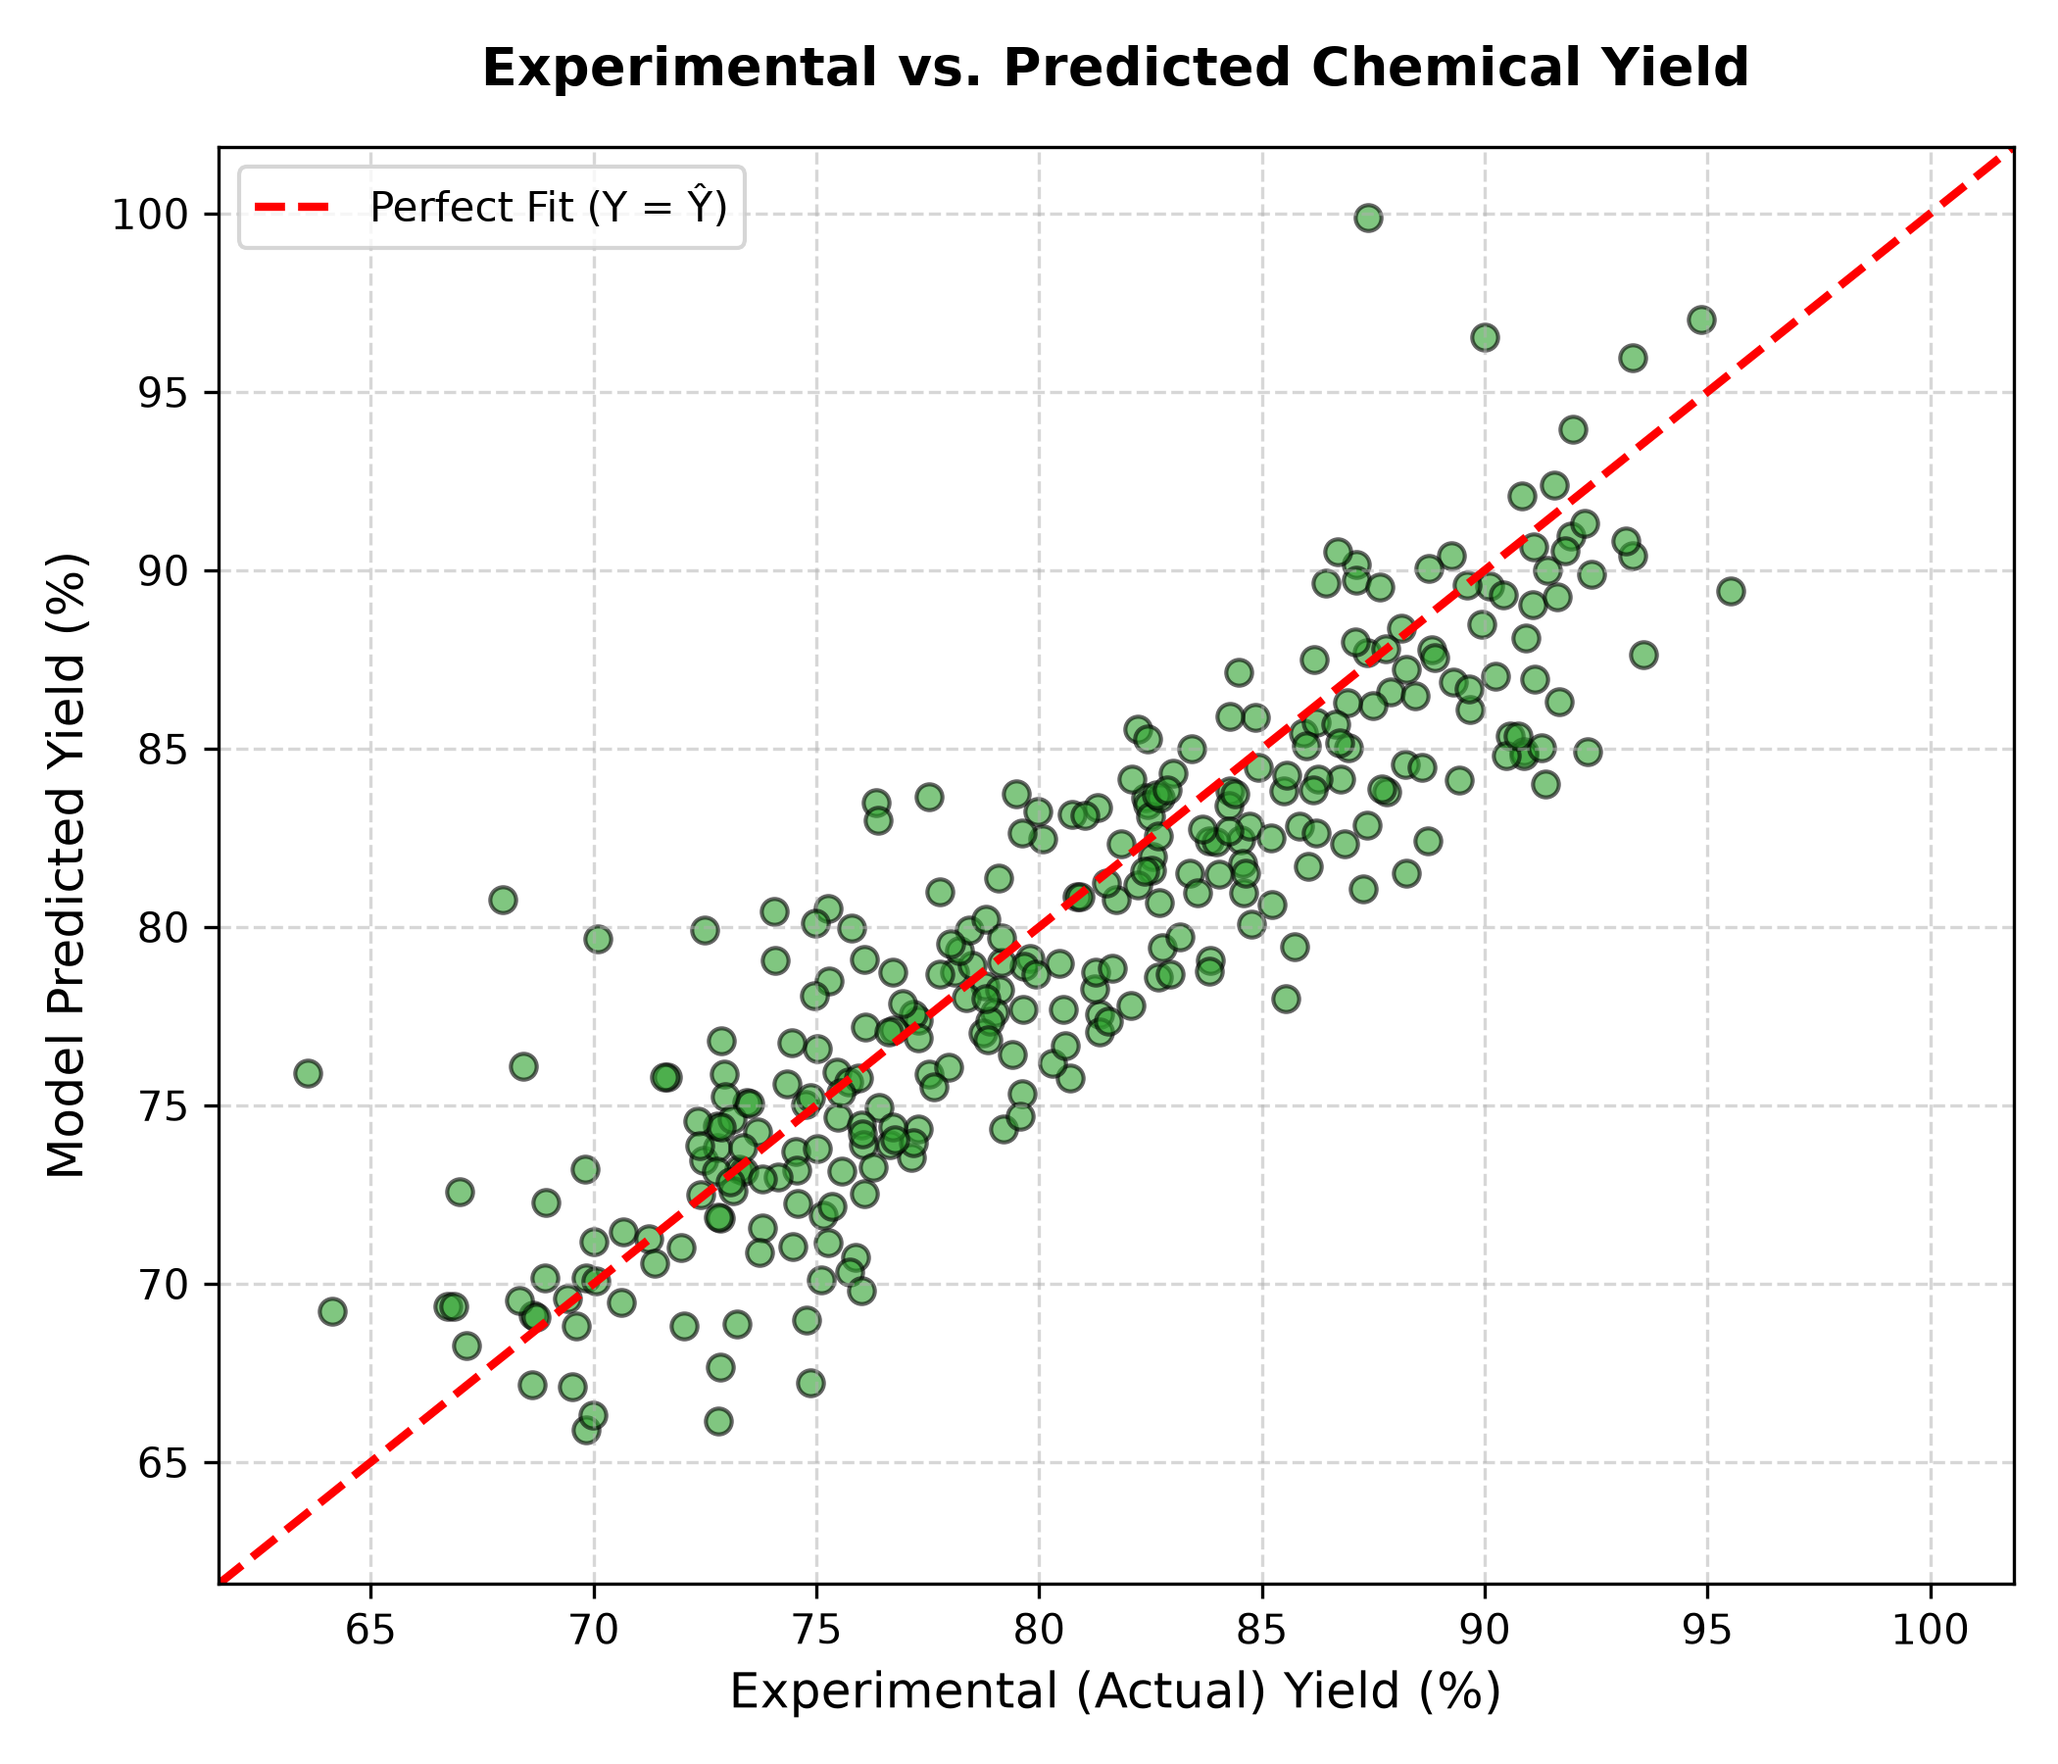
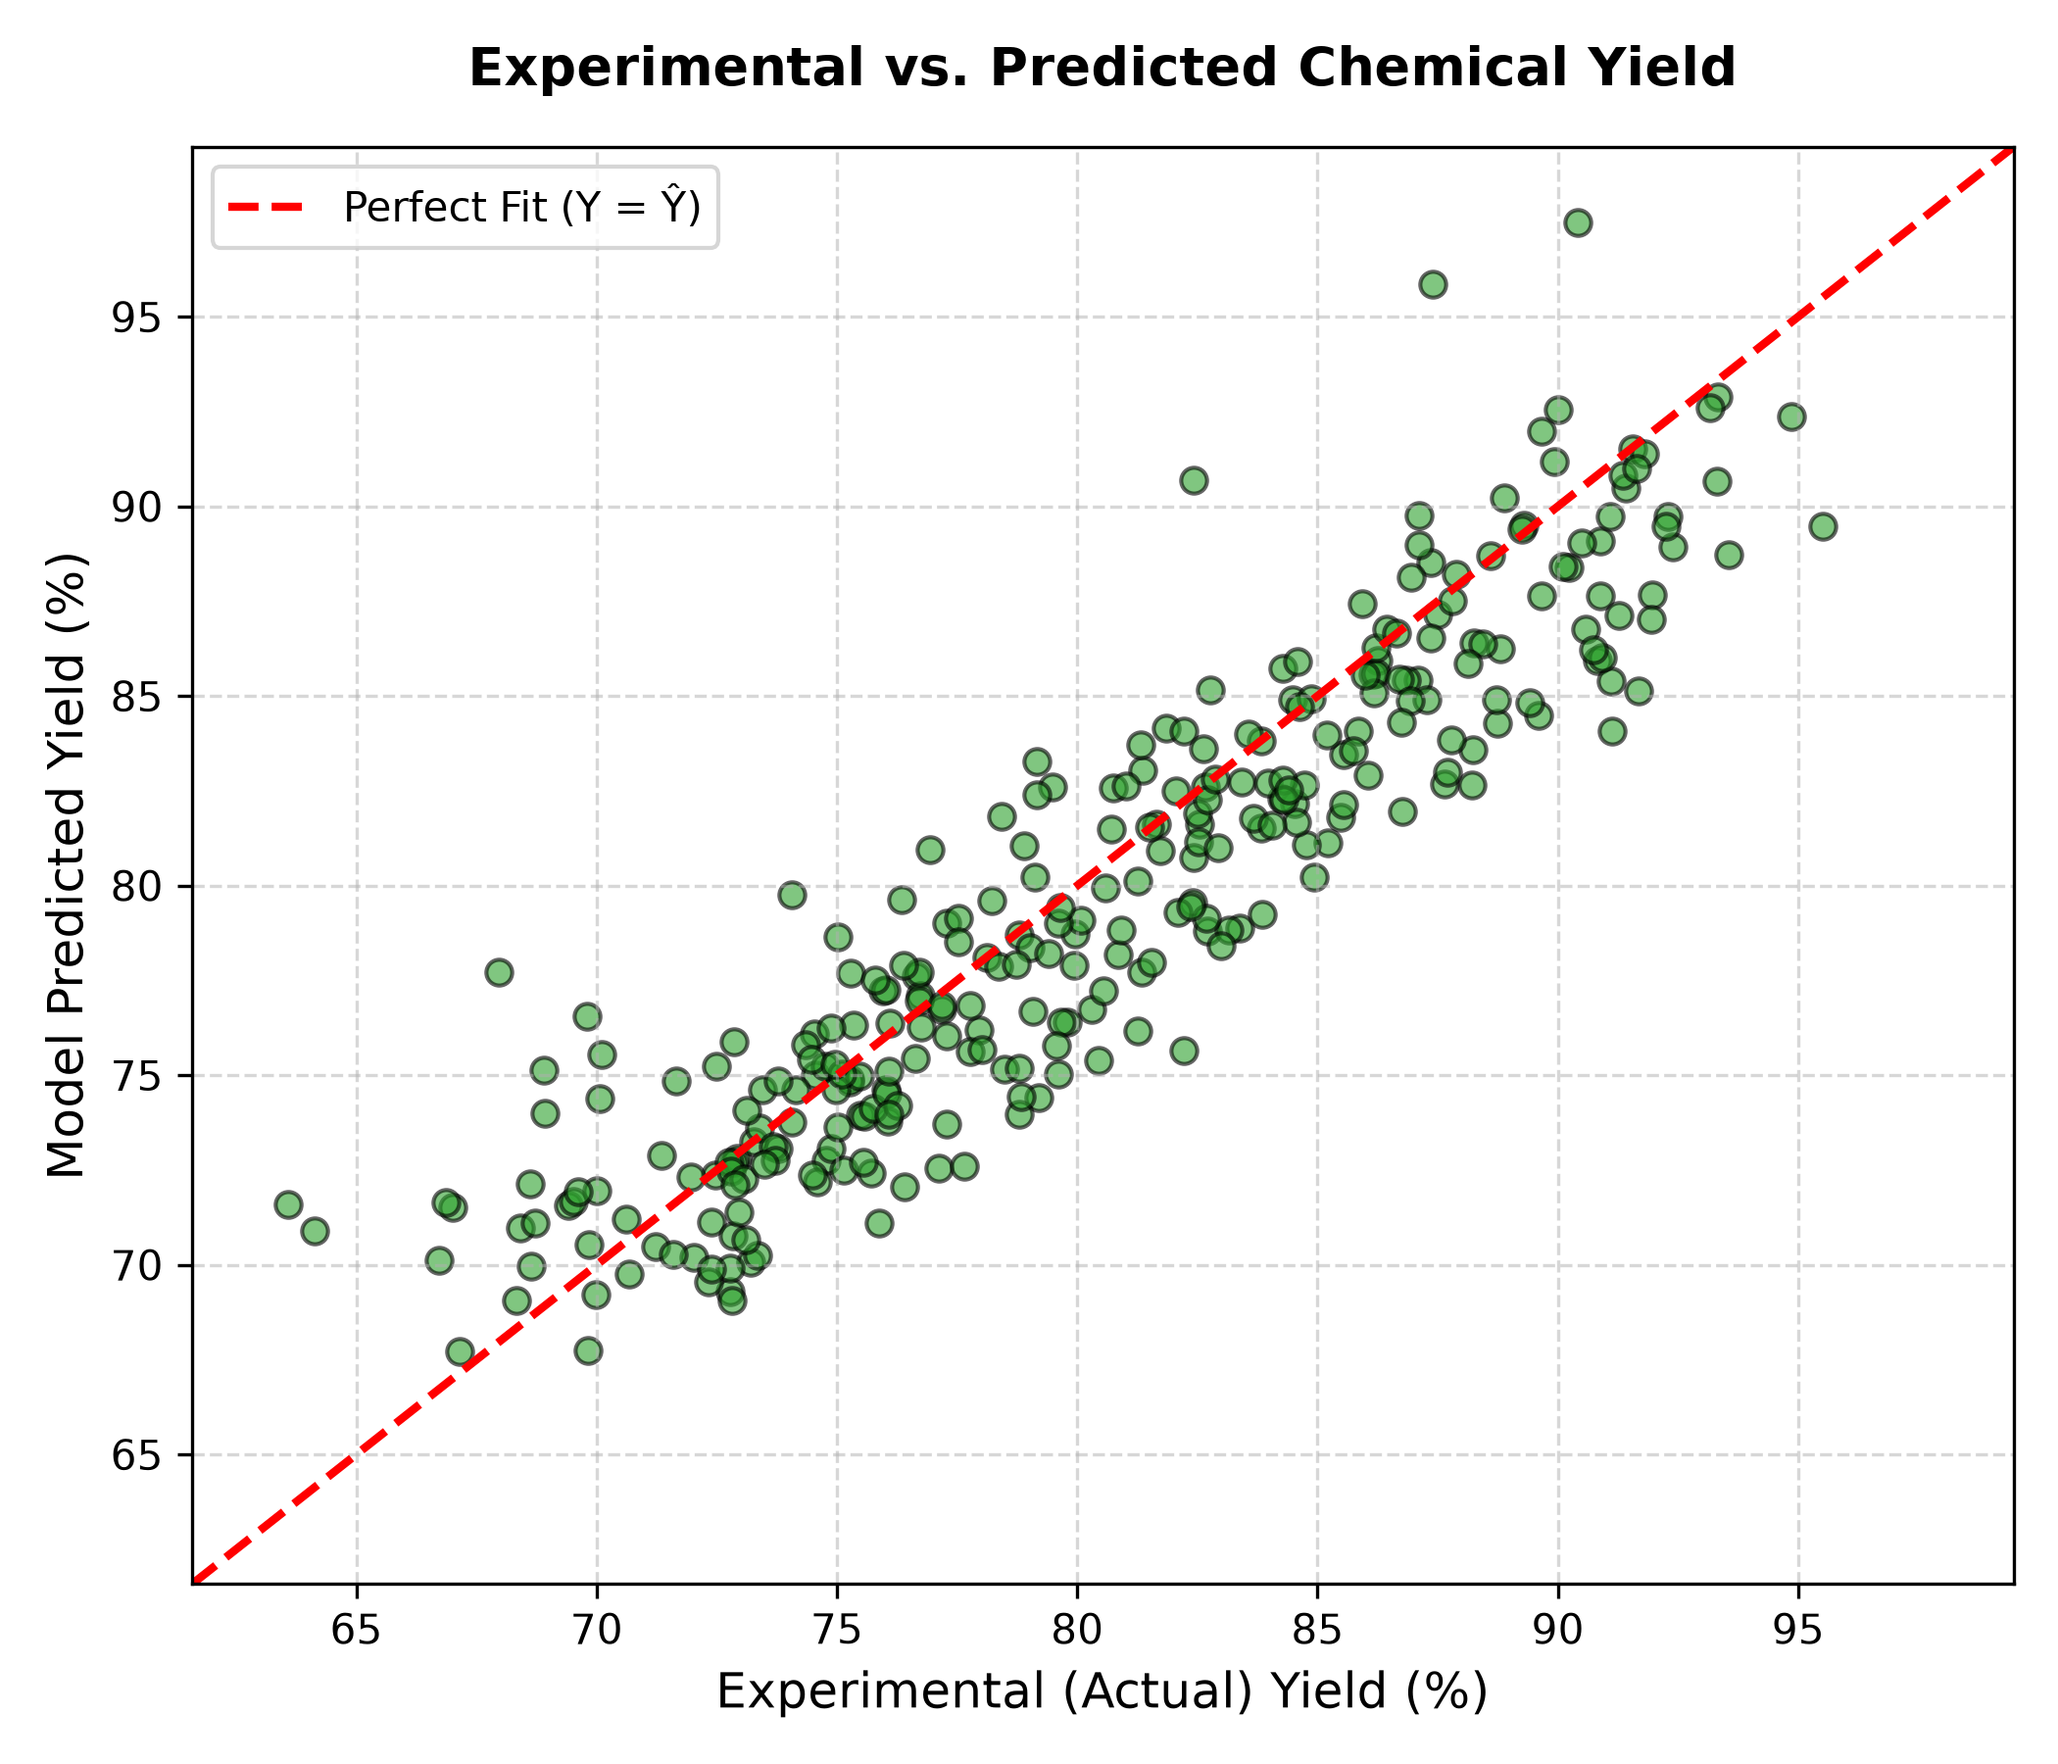
Fixed model path, added Streamlit frontend inputs, and updated prediction logic

diff --git a/src/predict.py b/src/predict.py
@@ -1,99 +1,25 @@
-import os
-import argparse
-import pickle
-import numpy as np
 import torch
+import numpy as np
+from src.model import ChemicalYieldPredictor
 
-from model import ChemicalYieldPredictor
+MODEL_PATH = "results/model.pt"
 
-def predict_yield(temperature, pressure, reaction_time, concentration, catalyst, project_root):
+def predict_yield(input_array):
     """
-    Predicts the chemical process yield for a set of raw process parameters.
-    
-    Parameters:
-    - temperature (float): Temperature in °C
-    - pressure (float): Pressure in bar
-    - reaction_time (float): Reaction time in hours
-    - concentration (float): Concentration in M
-    - catalyst (float): Catalyst amount in wt%
-    - project_root (str): Root directory of the project
-    
-    Returns:
-    - float: Predicted yield (%)
+    input_array: numpy array of shape (1, 5)
+    returns: predicted yield (float)
     """
-    results_dir = os.path.join(project_root, 'results')
-    scaler_path = os.path.join(results_dir, 'scaler.pkl')
-    model_path = os.path.join(results_dir, 'best_model.pth')
-    
-    # 1. Verify existence of models and scalers
-    if not os.path.exists(scaler_path) or not os.path.exists(model_path):
-        raise FileNotFoundError("Model or scaler not found. Please train the model by running main.py first.")
-        
-    # 2. Load scaler
-    with open(scaler_path, 'rb') as f:
-        scaler = pickle.load(f)
-        
-    # 3. Load trained model
+
+    # Load model
     model = ChemicalYieldPredictor()
-    model.load_state_dict(torch.load(model_path, map_location=torch.device('cpu')))
+    model.load_state_dict(torch.load(MODEL_PATH, map_location=torch.device("cpu")))
     model.eval()
-    
-    # 4. Prepare and scale inputs
-    raw_inputs = np.array([[temperature, pressure, reaction_time, concentration, catalyst]])
-    scaled_inputs = scaler.transform(raw_inputs)
-    
-    # 5. Convert to tensor and run inference
-    inputs_tensor = torch.tensor(scaled_inputs, dtype=torch.float32)
+
+    # Convert input to tensor
+    input_tensor = torch.tensor(input_array, dtype=torch.float32)
+
+    # Predict
     with torch.no_grad():
-        predicted_yield_tensor = model(inputs_tensor)
-        predicted_yield = predicted_yield_tensor.item()
-        
-    return predicted_yield
+        prediction = model(input_tensor)
 
-def main():
-    project_root = os.path.dirname(os.path.dirname(__file__))
-    
-    parser = argparse.ArgumentParser(description="ML-Based Decision-Support System for Chemical Process Yield Prediction")
-    parser.add_argument('--temp', type=float, default=180.0, help="Reaction Temperature in °C (typical range: 100 to 250)")
-    parser.add_argument('--pressure', type=float, default=30.0, help="System Pressure in bar (typical range: 1 to 50)")
-    parser.add_argument('--time', type=float, default=6.0, help="Reaction Time in hours (typical range: 0.5 to 10)")
-    parser.add_argument('--conc', type=float, default=2.2, help="Reactant Concentration in M (typical range: 0.5 to 3.0)")
-    parser.add_argument('--cat', type=float, default=1.0, help="Catalyst Amount in wt% (typical range: 0.1 to 2.0)")
-    
-    args = parser.parse_args()
-    
-    print("\n" + "="*55)
-    print("  CHEMICAL PROCESS YIELD IN SILICO DECISION-SUPPORT  ")
-    print("="*55)
-    print("Proposed Input Parameters:")
-    print(f" - Temperature:   {args.temp:.1f} °C")
-    print(f" - Pressure:      {args.pressure:.1f} bar")
-    print(f" - Reaction Time: {args.time:.2f} hours")
-    print(f" - Concentration: {args.conc:.2f} M")
-    print(f" - Catalyst:      {args.cat:.2f} wt%")
-    print("-"*55)
-    
-    try:
-        pred_yield = predict_yield(args.temp, args.pressure, args.time, args.conc, args.cat, project_root)
-        print(f"PREDICTED CHEMICAL YIELD: {pred_yield:.2f} %")
-        print("-"*55)
-        
-        # Decision-support recommendations
-        if pred_yield >= 85.0:
-            print("Decision: HIGHLY RECOMMENDED PARAMETERS.")
-            print("Action: Safe to proceed with production run. Predicted yield exceeds the standard QC threshold.")
-        elif pred_yield >= 70.0:
-            print("Decision: ACCEPTABLE PARAMETERS (Marginal).")
-            print("Action: Consider tuning parameters (e.g., adjust temperature closer to 180°C or pressure to 30 bar) to optimize yield.")
-        else:
-            print("Decision: REJECTED PARAMETERS.")
-            print("Action: DO NOT proceed. High likelihood of sub-optimal reaction, QC rejection, or high recycle fraction.")
-            
-    except FileNotFoundError as e:
-        print(f"Error: {e}")
-    except Exception as e:
-        print(f"An unexpected error occurred during prediction: {e}")
-    print("="*55 + "\n")
-
-if __name__ == '__main__':
-    main()
+    return prediction.item()

diff --git a/app.py b/app.py
@@ -1,0 +1,24 @@
+import streamlit as st
+import numpy as np
+from src.predict import predict_yield
+
+st.set_page_config(page_title="Chemical Yield Predictor", layout="centered")
+
+st.title("🔬 Chemical Yield Prediction System")
+
+st.write("Enter process parameters to predict yield percentage")
+
+# ---- Input fields ----
+temperature = st.number_input("Temperature (°C)", min_value=0.0, max_value=1000.0)
+pressure = st.number_input("Pressure (atm)", min_value=0.0, max_value=500.0)
+reaction_time = st.number_input("Reaction Time (hours)", min_value=0.0, max_value=100.0)
+concentration = st.number_input("Concentration (mol/L)", min_value=0.0, max_value=10.0)
+catalyst = st.number_input("Catalyst Amount (g)", min_value=0.0, max_value=50.0)
+
+# ---- Predict Button ----
+if st.button("Predict Yield"):
+    inputs = np.array([[temperature, pressure, reaction_time, concentration, catalyst]])
+    
+    predicted_yield = predict_yield(inputs)
+
+    st.success(f"✅ Predicted Yield: {predicted_yield:.2f}%")

diff --git a/src/train.py b/src/train.py
@@ -111,7 +111,7 @@ def train_model(model, train_loader, val_loader, epochs=200, base_lr=0.005, pati
     return model, train_loss_history, val_loss_history
 
 if __name__ == '__main__':
-    from model import ChemicalYieldPredictor
+    from src.model import ChemicalYieldPredictor
     # Import the function from data_preprocessing
     from data_preprocessing import preprocess_and_split_data 
 

diff --git a/src/evaluate.py b/src/evaluate.py
@@ -6,7 +6,7 @@ import matplotlib.pyplot as plt
 import seaborn as sns
 import torch
 
-from model import ChemicalYieldPredictor
+from src.model import ChemicalYieldPredictor
 
 def load_metrics_and_plot(project_root, train_loss, val_loss):
     """
